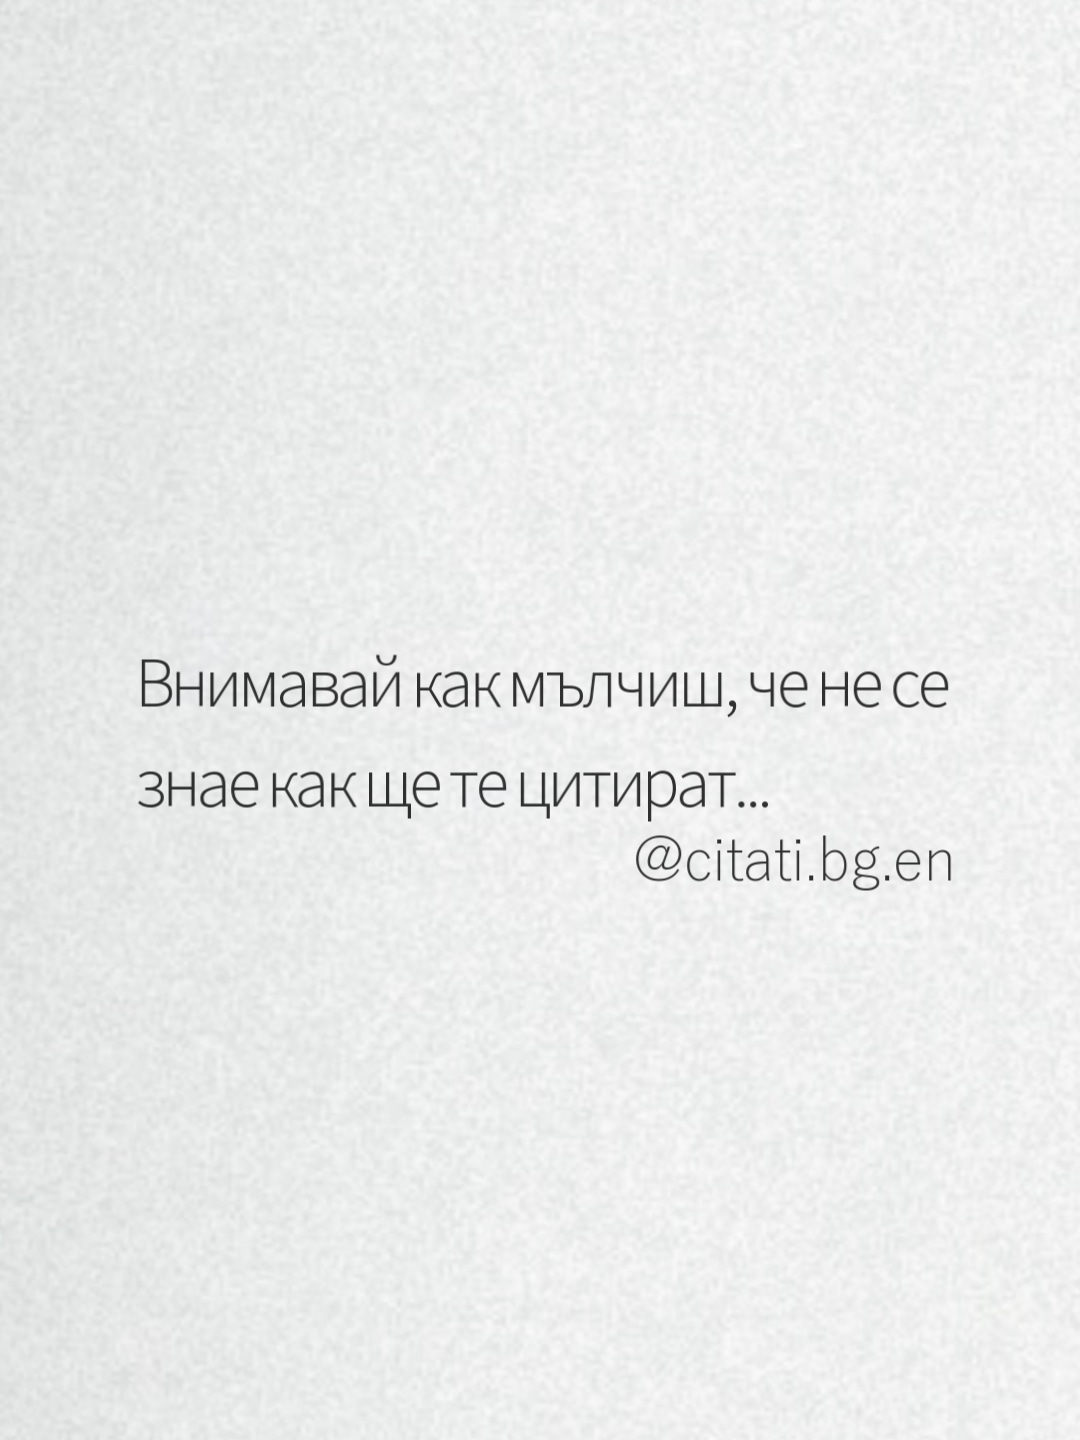
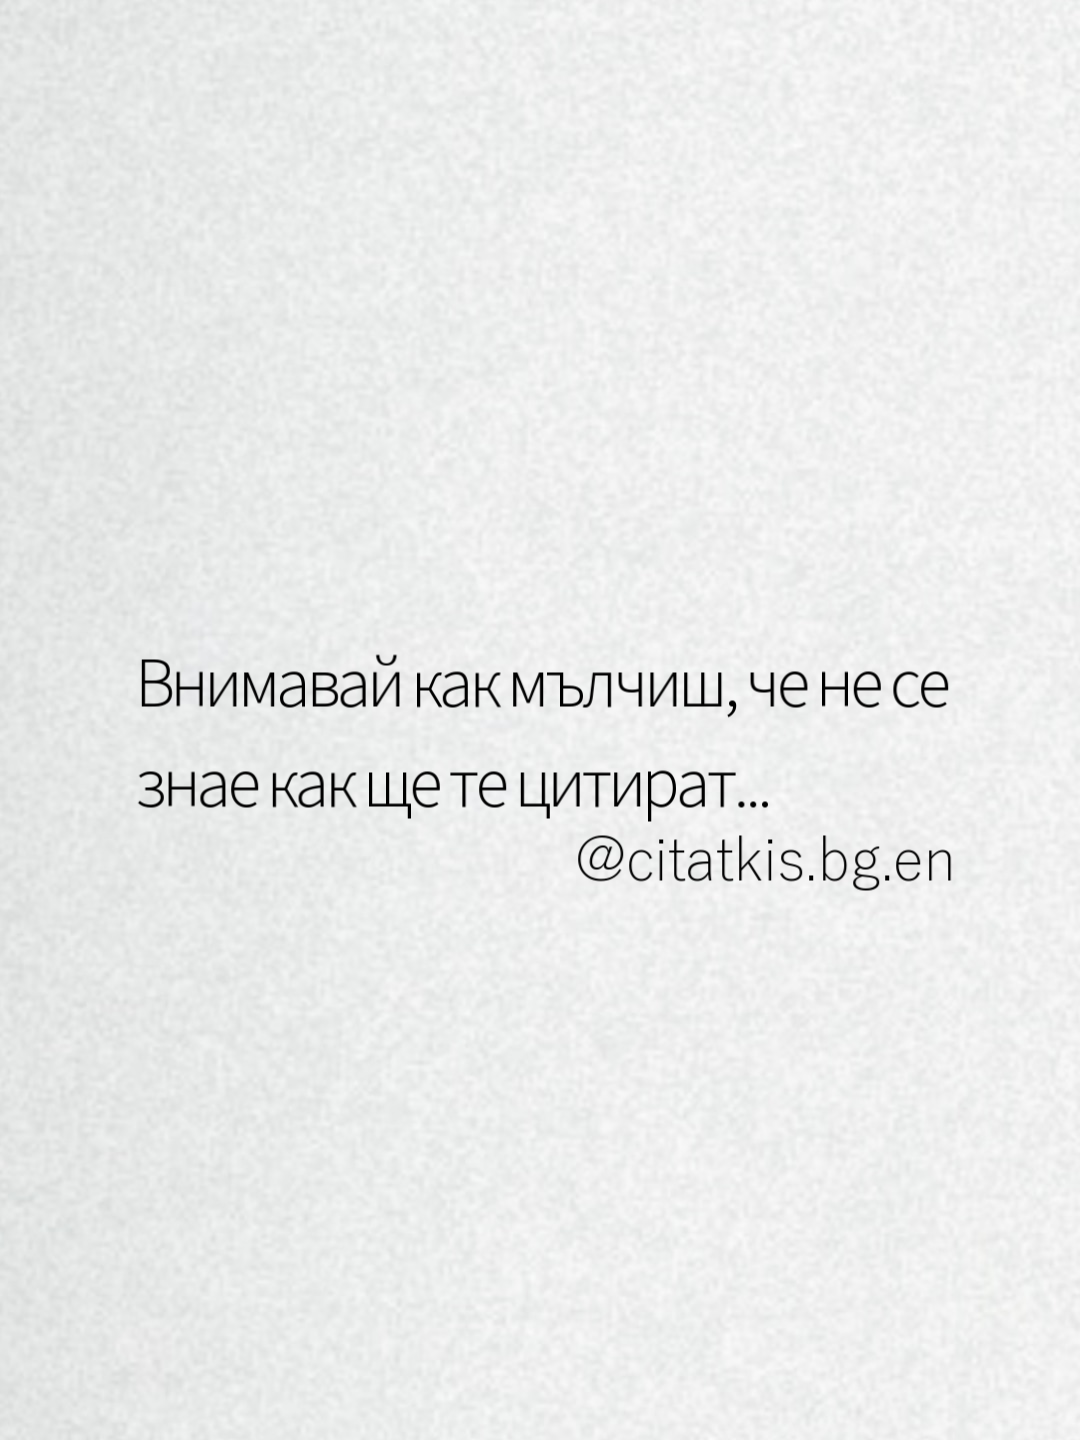
Added color change to options

diff --git a/Automated_Quotes/main.cpp b/Automated_Quotes/main.cpp
@@ -12,10 +12,6 @@ int main()
     writeFileToString(quoteString, options.quoteFileDir);
     vector<std::wstring> quotesArray = splitStringToVector(quoteString, options.splitter);
 
-    //Set text color temporary ADD IT IN OPTIONS
-    sf::Color textColor = sf::Color::Black;
-    textColor.a = 204;
-
     //Set Background
     sf::Texture backGroundTexture;
     backGroundTexture.loadFromFile(options.backgroundDir);
@@ -26,7 +22,7 @@ int main()
     sf::Text text;
 
     //Set Watermark Text
-    sf::Text waterMarkText = makeText(options.watermarkString, options.waterCharacterSize, textColor);
+    sf::Text waterMarkText = makeText(options.watermarkString, options.waterCharacterSize, options.textColor);
     sf::Font waterFont = createFont(options.waterFontDir);
     waterMarkText.setFont(waterFont);
     const sf::FloatRect waterLbounds = waterMarkText.getLocalBounds();
@@ -36,7 +32,7 @@ int main()
 
     for (int i = 0; i < quotesArray.size(); i++)
     {
-        text = makeText(quotesArray[i], options.textCharacterSize, textColor);
+        text = makeText(quotesArray[i], options.textCharacterSize, options.textColor);
         text.setFont(txtFont);
         text.setLetterSpacing(0.1);
         sf::FloatRect textLbounds = text.getLocalBounds();

diff --git a/Automated_Quotes/Quote_Functions.h b/Automated_Quotes/Quote_Functions.h
@@ -76,6 +76,14 @@ static Options loadOptions(std::string optionsDir)
         optionsVector.push_back(line);
         getline(file, line);
     }
+    //ASSIGN COLOR VALUES TO A COLOR
+    std::wstring textColorValuesStr = std::wstring_convert<std::codecvt_utf8<wchar_t>>().from_bytes(optionsVector[10]);
+    std::vector<std::wstring> textColorValues = splitStringToVector(textColorValuesStr, L",");
+    sf::Color textColor;
+    textColor.r = stof(textColorValues[0]);
+    textColor.g = stof(textColorValues[1]);
+    textColor.b = stof(textColorValues[2]);
+    textColor.a = stof(textColorValues[3]);
 
     options.resX = stoi(optionsVector[0]);
     options.resY = stoi(optionsVector[1]);
@@ -87,6 +95,7 @@ static Options loadOptions(std::string optionsDir)
     options.waterFontDir = optionsVector[7];
     options.backgroundDir = optionsVector[8];
     options.watermarkString = std::wstring_convert<std::codecvt_utf8<wchar_t>>().from_bytes(optionsVector[9]);
+    options.textColor = textColor;
 
 
     return options;

diff --git a/Automated_Quotes/Quote_Structs.h b/Automated_Quotes/Quote_Structs.h
@@ -7,4 +7,5 @@ struct Options
 
     std::wstring splitter, watermarkString;
     std::string quoteFileDir, backgroundDir, txtFontDir, waterFontDir;
+    sf::Color textColor;
 };
